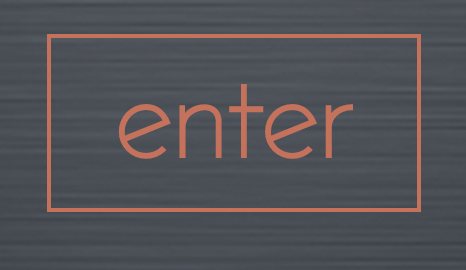
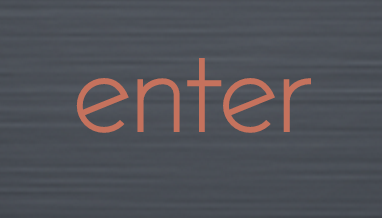
a

Changed region(s): [[0.2016, 0.2477, 0.8351, 0.633], [0.0864, 0.1101, 0.9215, 0.7982]]

diff --git a/index.css b/index.css
@@ -118,6 +118,8 @@ h1 {
 .websitepic {
 	float: right;
 	margin: -35px 0px 10px 15px;
+	width: 250px;
+	height: 150px;
 	border: 3px solid rgb(197, 114, 93);
 }
 
